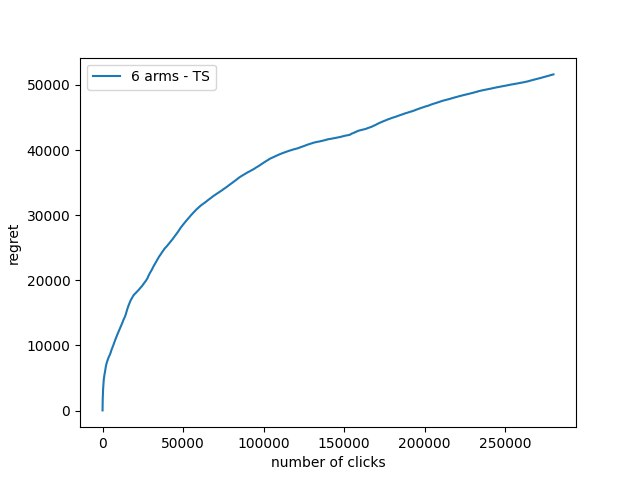
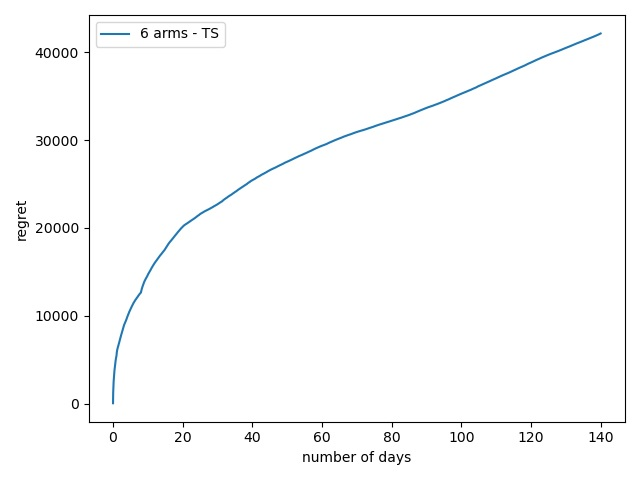
Modify context generator

diff --git a/context_generator/TSContextGenerator.py b/context_generator/TSContextGenerator.py
@@ -9,35 +9,38 @@ class TSContextGenerator:
         self.arms_demand_for_each_user = arms_demand_for_each_user
         self.arms = arms
         self.realizations_per_arm_per_demand = [[
-            [] for _ in range(len(probabilities_of_users))
+            [0, 0] for _ in range(len(probabilities_of_users))
         ] for _ in range(len(arms))]
-        self.beta_params = np.ones([len(arms), len(probabilities_of_users), 2], dtype=np.int64)
         self.regrets = []
         self.contexts = [Context([i for i in range(len(probabilities_of_users))])]
 
     def n(self, arm, demand):
-        return len(self.realizations_per_arm_per_demand[arm][demand])
+        return self.realizations_per_arm_per_demand[arm][demand][0] + self.realizations_per_arm_per_demand[arm][demand][1]
 
     def emp_mean(self, arm, demand):
-        return np.mean(self.realizations_per_arm_per_demand[arm][demand])
+        if self.realizations_per_arm_per_demand[arm][demand][0] == 0:
+            return 0
+        else:
+            return self.realizations_per_arm_per_demand[arm][demand][0] / (self.realizations_per_arm_per_demand[arm][demand][0] + self.realizations_per_arm_per_demand[arm][demand][1])
 
-    def calc_clair_rew_regret(self):
-        clairvoyant = 0
-        reward = 0
-        for i in range(len(self.contexts)):
-            context = self.contexts[i]
-            clairvoyant += context.get_clairvoyant(self.probabilities_of_users, self.arms_demand_for_each_user, self.arms)
-            best_arm = context.get_best_arm(self.probabilities_of_users, self, self.arms)
+    def calc_clair_rew_regret(self, clicks_per_day):
+        for _ in range(0, clicks_per_day):
+            clairvoyant = 0
+            reward = 0
+            for i in range(len(self.contexts)):
+                context = self.contexts[i]
+                clairvoyant += context.get_clairvoyant(self.probabilities_of_users, self.arms_demand_for_each_user, self.arms)
+                best_arm = context.get_best_arm(self.probabilities_of_users, self, self.arms)
 
-            for demand in context.demands_index_list:
-                sort = np.random.binomial(n=1, size=1, p=self.arms_demand_for_each_user[best_arm][demand])[0]
-                self.realizations_per_arm_per_demand[best_arm][demand].append(sort)
-                self.beta_params[best_arm][demand] += np.array([sort, 1 - sort])
+                for demand in context.demands_index_list:
+                    sort = np.random.binomial(n=1, size=1, p=self.arms_demand_for_each_user[best_arm][demand])[0]
+                    self.realizations_per_arm_per_demand[best_arm][demand][0] += sort
+                    self.realizations_per_arm_per_demand[best_arm][demand][1] += 1 - sort
 
-            reward += context.get_arm_reward(self.probabilities_of_users, self, best_arm, self.arms)
+                reward += context.get_arm_reward(self.probabilities_of_users, self, best_arm, self.arms)
 
-        reward = min(reward, clairvoyant)
-        self.regrets.append(clairvoyant - reward)
+            reward = min(reward, clairvoyant)
+            self.regrets.append(clairvoyant - reward)
 
     def split(self):
         for i in range(len(self.contexts)):

diff --git a/context_generator/main.py b/context_generator/main.py
@@ -6,9 +6,10 @@ import csv
 
 regret = []
 number_of_arms = 6
-number_of_experiments = 5
-number_of_clicks = 280000   # 20 days
-interval_for_splitting = 14000   # 2000 clicks per day
+number_of_experiments = 10
+clicks_per_day = 2000
+interval_for_splitting = 7
+number_of_days = 140
 probabilities_of_users = [u.getProbabilities(0), u.getProbabilities(1), u.getProbabilities(2)]
 arms = np.array([100 + ((400-100)/number_of_arms) * i for i in range(number_of_arms)])
 arms_demand_for_each_user = np.zeros([number_of_arms, len(probabilities_of_users)])
@@ -18,27 +19,29 @@ for i in range(number_of_arms):
         arms_demand_for_each_user[i][j] = u.getDemandCurve(j, arms[i])
 
 for e in range(number_of_experiments):
+    print(datetime.now().strftime("%H:%M:%S") + " - %s experiment beginning" % (e+1))
     ts_context_generator = TSContextGenerator(probabilities_of_users, arms_demand_for_each_user, arms)
-    for i in range(number_of_clicks):
-        ts_context_generator.calc_clair_rew_regret()
-        if i % interval_for_splitting == 0:
-            timestampStr = datetime.now().strftime("%H:%M:%S")
-            print(timestampStr + " - Step %s of %s (%s exp)" % ((i/interval_for_splitting)+1, number_of_clicks/interval_for_splitting, e+1))
+    for i in range(number_of_days):
+        ts_context_generator.calc_clair_rew_regret(clicks_per_day)
+        if i % interval_for_splitting == 0  and i != 0:
             ts_context_generator.split()
 
     regret.append(ts_context_generator.regrets)
 
 plt.figure(0)
-plt.plot(np.cumsum(np.mean(regret, axis=0)))
+plt.plot(np.cumsum(np.mean(regret, axis=0)),)
 plt.legend(["6 arms - TS"])
-plt.xlabel("number of clicks")
+plt.xlabel("number of days")
 plt.ylabel("regret")
+plt.xticks(np.linspace(0, clicks_per_day*number_of_days, 8), np.linspace(0, number_of_days, 8, dtype=np.int32))
 plt.show()
 
 # Storing results
+"""
 time = datetime.now().strftime("%d-%m-%Y-at-%H-%M-%S")
 proc_regret = np.mean(regret, axis=0)
 with open(time + "-regret.csv", "w") as writeFile:
     writer = csv.writer(writeFile)
     writer.writerow(proc_regret)
 writeFile.close()
+"""

diff --git a/context_generator/Context.py b/context_generator/Context.py
@@ -19,8 +19,8 @@ class Context:
         scores = np.zeros(len(arms))
         for d in self.demands_index_list:
             for i in range(len(arms)):
-                scores[i] += np.random.beta(context_generator.beta_params[i][d][0], context_generator.beta_params[i][d][1], size=1)[0] * probabilities_of_users[d]
-
+                scores[i] += np.random.beta(context_generator.realizations_per_arm_per_demand[i][d][0] + 1,
+                                            context_generator.realizations_per_arm_per_demand[i][d][1] + 1, size=1)[0] * probabilities_of_users[d]
         scores = scores * arms
         return np.argmax(scores)
 
